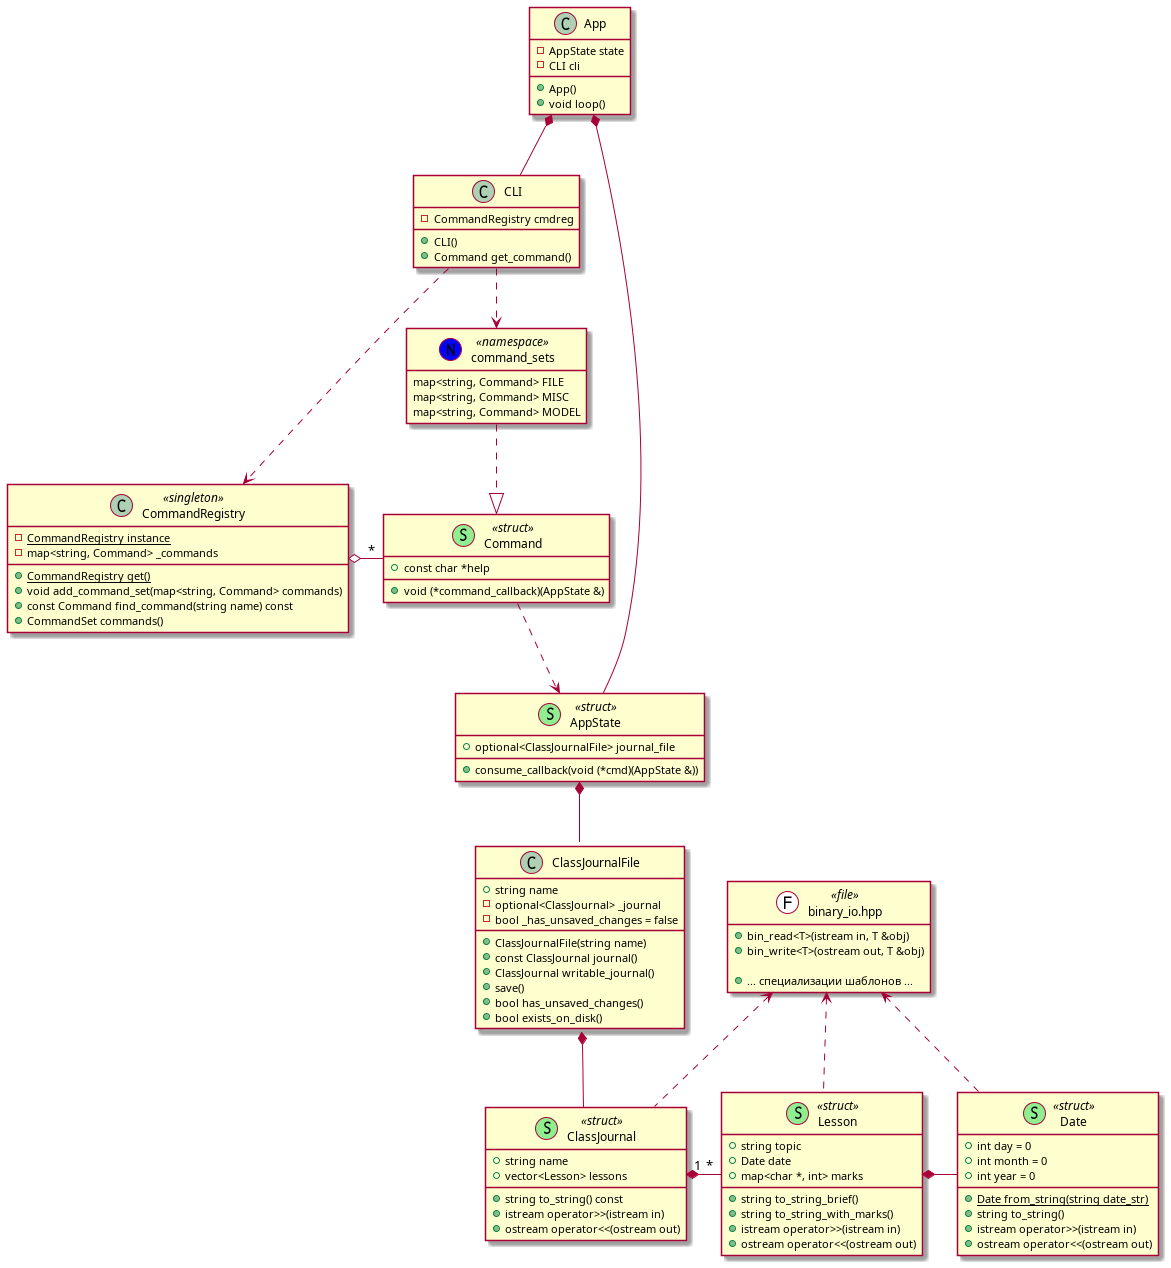
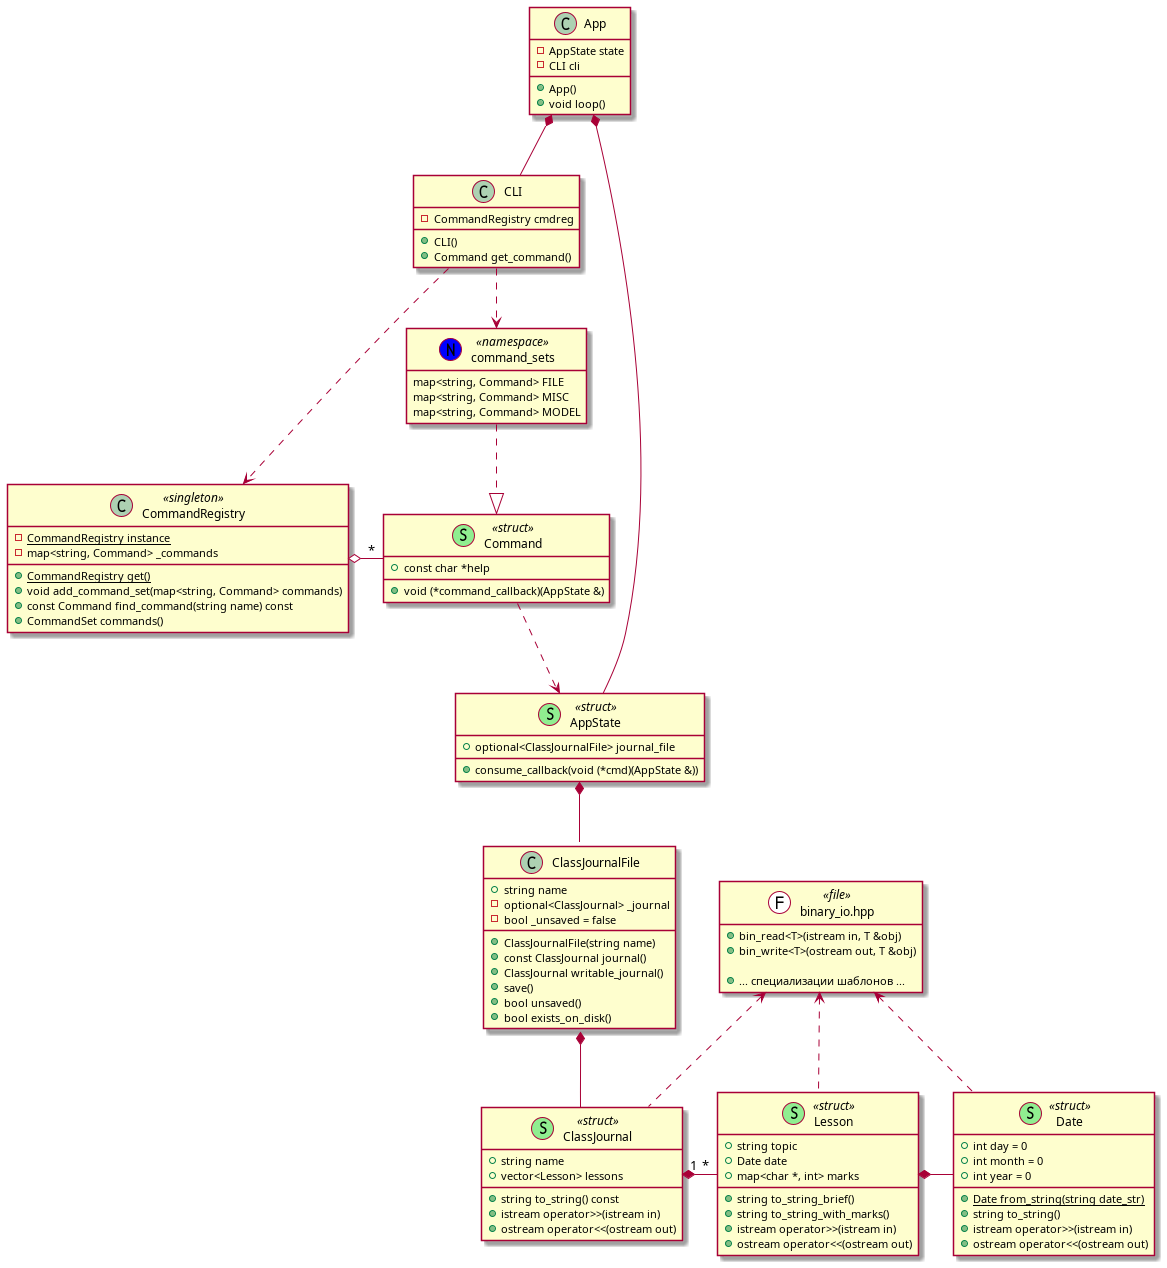
Переименования

diff --git a/IOOverride/9/command_sets/model.cpp b/IOOverride/9/command_sets/model.cpp
@@ -18,7 +18,7 @@ CommandSet command_sets::MODEL = {
             "Печатает название журнала, названия и даты занятий.",
             [] (AppState &app) {
                 require_journal_to_be_open(app.journal_file);
-                cout << app.journal_file->get_journal().to_string() << endl;
+                cout << app.journal_file->journal().to_string() << endl;
             }
         }
     },
@@ -27,7 +27,7 @@ CommandSet command_sets::MODEL = {
             "Печатает название, тему занятия, а также оценки, выставленные на нем.",
             [] (AppState &app) {
                 require_journal_to_be_open(app.journal_file);
-                cout << select_lesson(app.journal_file->get_journal().lessons).to_string_with_marks() << endl;
+                cout << select_lesson(app.journal_file->journal().lessons).to_string_with_marks() << endl;
             }
         }
     },
@@ -42,7 +42,7 @@ CommandSet command_sets::MODEL = {
                 cout << "Название занятия >> ";
                 getline(cin, lesson.topic);
                 lesson.date = read_date();
-                app.journal_file->get_journal_and_mark_changed().lessons.push_back(lesson);
+                app.journal_file->writable_journal().lessons.push_back(lesson);
             }
         }
     },
@@ -51,7 +51,7 @@ CommandSet command_sets::MODEL = {
             "Добавляет оценки к занятию.", [] (AppState &app) {
                 require_journal_to_be_open(app.journal_file);
 
-                auto &marks = select_lesson(app.journal_file->get_journal_and_mark_changed().lessons).marks;
+                auto &marks = select_lesson(app.journal_file->writable_journal().lessons).marks;
 
                 while (true) {
                     string student;

diff --git a/IOOverride/9/ClassJournalFile.cpp b/IOOverride/9/ClassJournalFile.cpp
@@ -10,31 +10,35 @@ ClassJournalFile::ClassJournalFile(std::string name) : name(name) {
     if (exists_on_disk()) {
         load();
     } else {
-        journal = make_optional<ClassJournal>();
+        _journal = make_optional<ClassJournal>();
     }
 }
 
-const ClassJournal &ClassJournalFile::get_journal() {
-    return *journal;
+const ClassJournal &ClassJournalFile::journal() {
+    return *_journal;
 }
 
-ClassJournal &ClassJournalFile::get_journal_and_mark_changed() {
-    _has_unsaved_changes = true;
-    return const_cast<ClassJournal &>(get_journal());
+ClassJournal &ClassJournalFile::writable_journal() {
+    _unsaved = true;
+    return const_cast<ClassJournal &>(journal());
 }
 
 void ClassJournalFile::save() {
     ofstream out(name);
-    out << *journal;
-    _has_unsaved_changes = false;
+    out << *_journal;
+    _unsaved = false;
+}
+
+bool ClassJournalFile::unsaved() const {
+    return _unsaved;
 }
 
 void ClassJournalFile::load() {
     ifstream in(name);
     ClassJournal loaded;
     in >> loaded;
-    journal = loaded;
-    _has_unsaved_changes = false;
+    _journal = loaded;
+    _unsaved = false;
 }
 
 bool ClassJournalFile::exists_on_disk() const {

diff --git a/IOOverride/9/command_sets/file.cpp b/IOOverride/9/command_sets/file.cpp
@@ -22,7 +22,7 @@ CommandSet command_sets::FILE = {
             [] (AppState &app) {
                 require_journal_to_be_open(app);
                 cout << "Имя файла:\t\t" << app.journal_file->name << endl
-                     << "Несохр. изменения:\t" << (app.journal_file->has_unsaved_changes() ? "Да" : "Нет") << endl;
+                     << "Несохр. изменения:\t" << (app.journal_file->unsaved() ? "Да" : "Нет") << endl;
             }
         }
     },
@@ -37,7 +37,7 @@ CommandSet command_sets::FILE = {
                     confirm_overwrite();
                 }
                 string journal_name = ask_and_abort_if_empty("Название журнала");
-                file.get_journal_and_mark_changed().name = journal_name;
+                file.writable_journal().name = journal_name;
 
                 app.journal_file = file;
             }

diff --git a/IOOverride/9/ClassJournalFile.hpp b/IOOverride/9/ClassJournalFile.hpp
@@ -10,17 +10,15 @@ public:
     std::string name;
 
     ClassJournalFile(std::string name);
-    const ClassJournal &get_journal();
-    ClassJournal &get_journal_and_mark_changed();
+    const ClassJournal &journal();
+    ClassJournal &writable_journal();
     void save();
-    inline bool has_unsaved_changes() const {
-        return _has_unsaved_changes;
-    }
+    bool unsaved() const;
     bool exists_on_disk() const;
 
 private:
-    std::optional<ClassJournal> journal;
-    bool _has_unsaved_changes = false;
+    std::optional<ClassJournal> _journal;
+    bool _unsaved = false;
 
     void load();
 };

diff --git a/IOOverride/9/command_sets/_util.cpp b/IOOverride/9/command_sets/_util.cpp
@@ -9,7 +9,7 @@ bool check_file_saved(optional<ClassJournalFile> &file) {
     if (!file.has_value()) {
         return true;
     }
-    if (file->has_unsaved_changes()) {
+    if (file->unsaved()) {
         cout << "Есть несохраненные изменения.\nИспользуйте \"save\" для сохранения, или \"close!\" для принудительного закрытия.\n";
         return false;
     }
